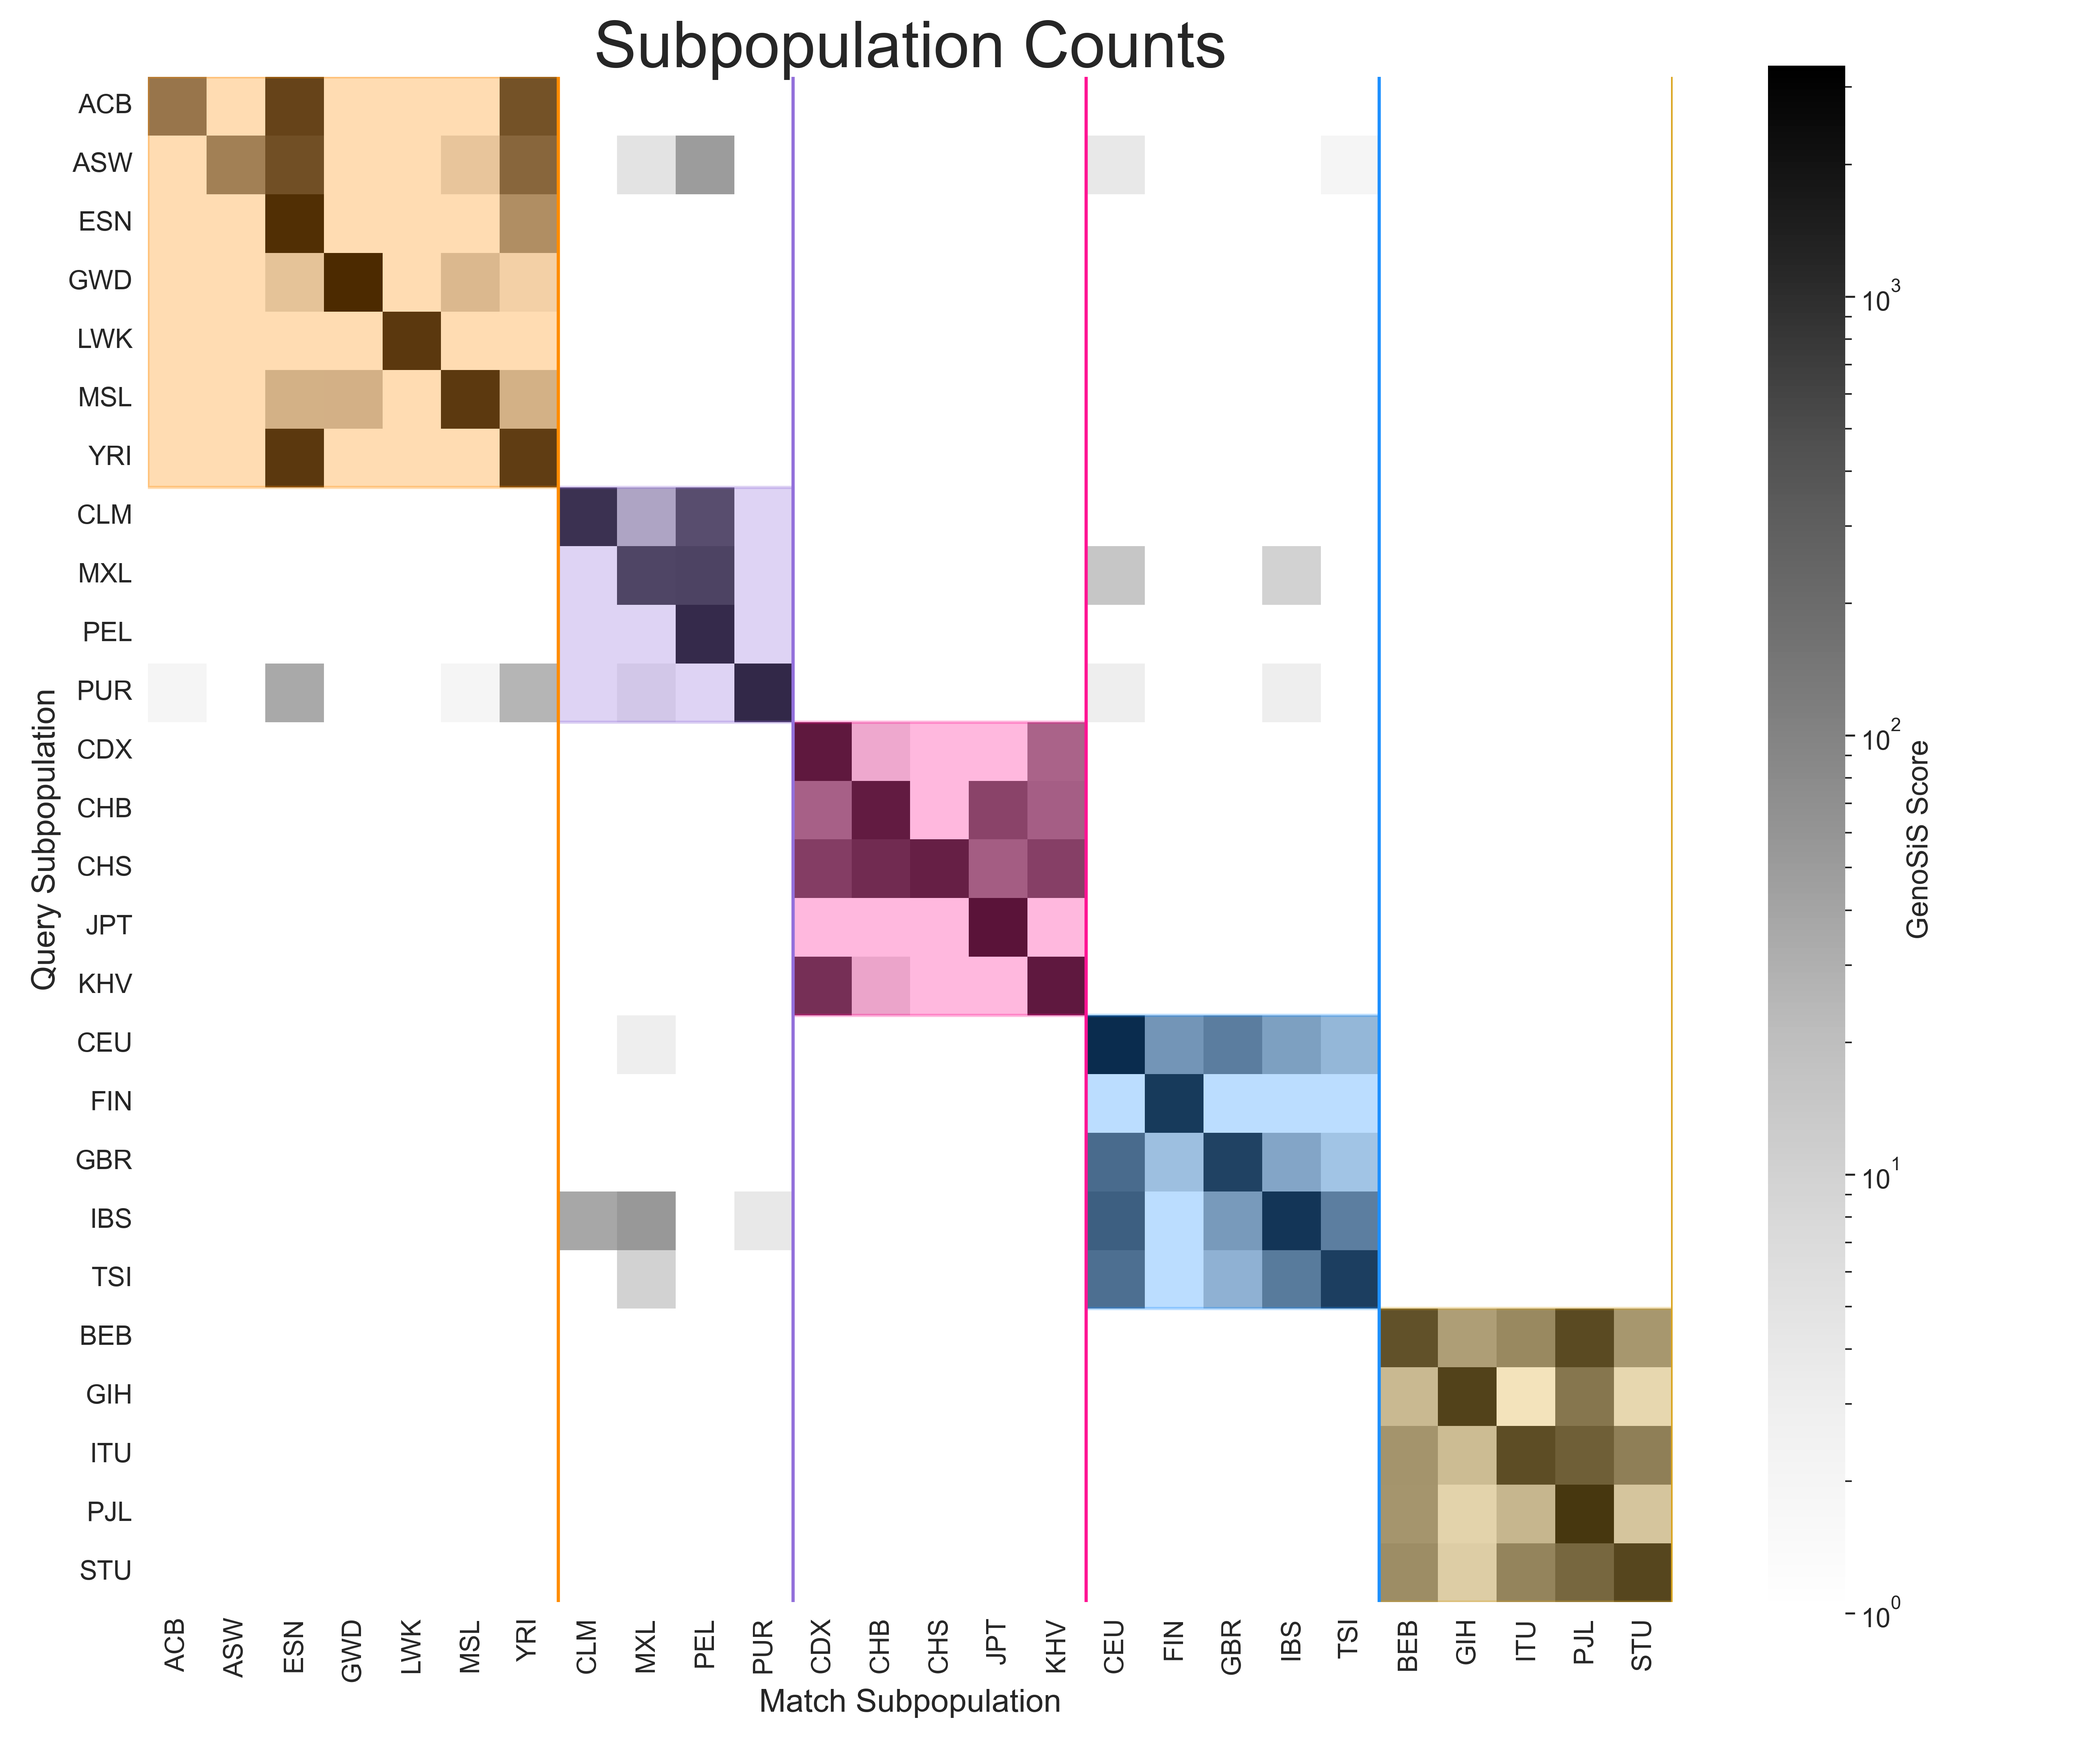
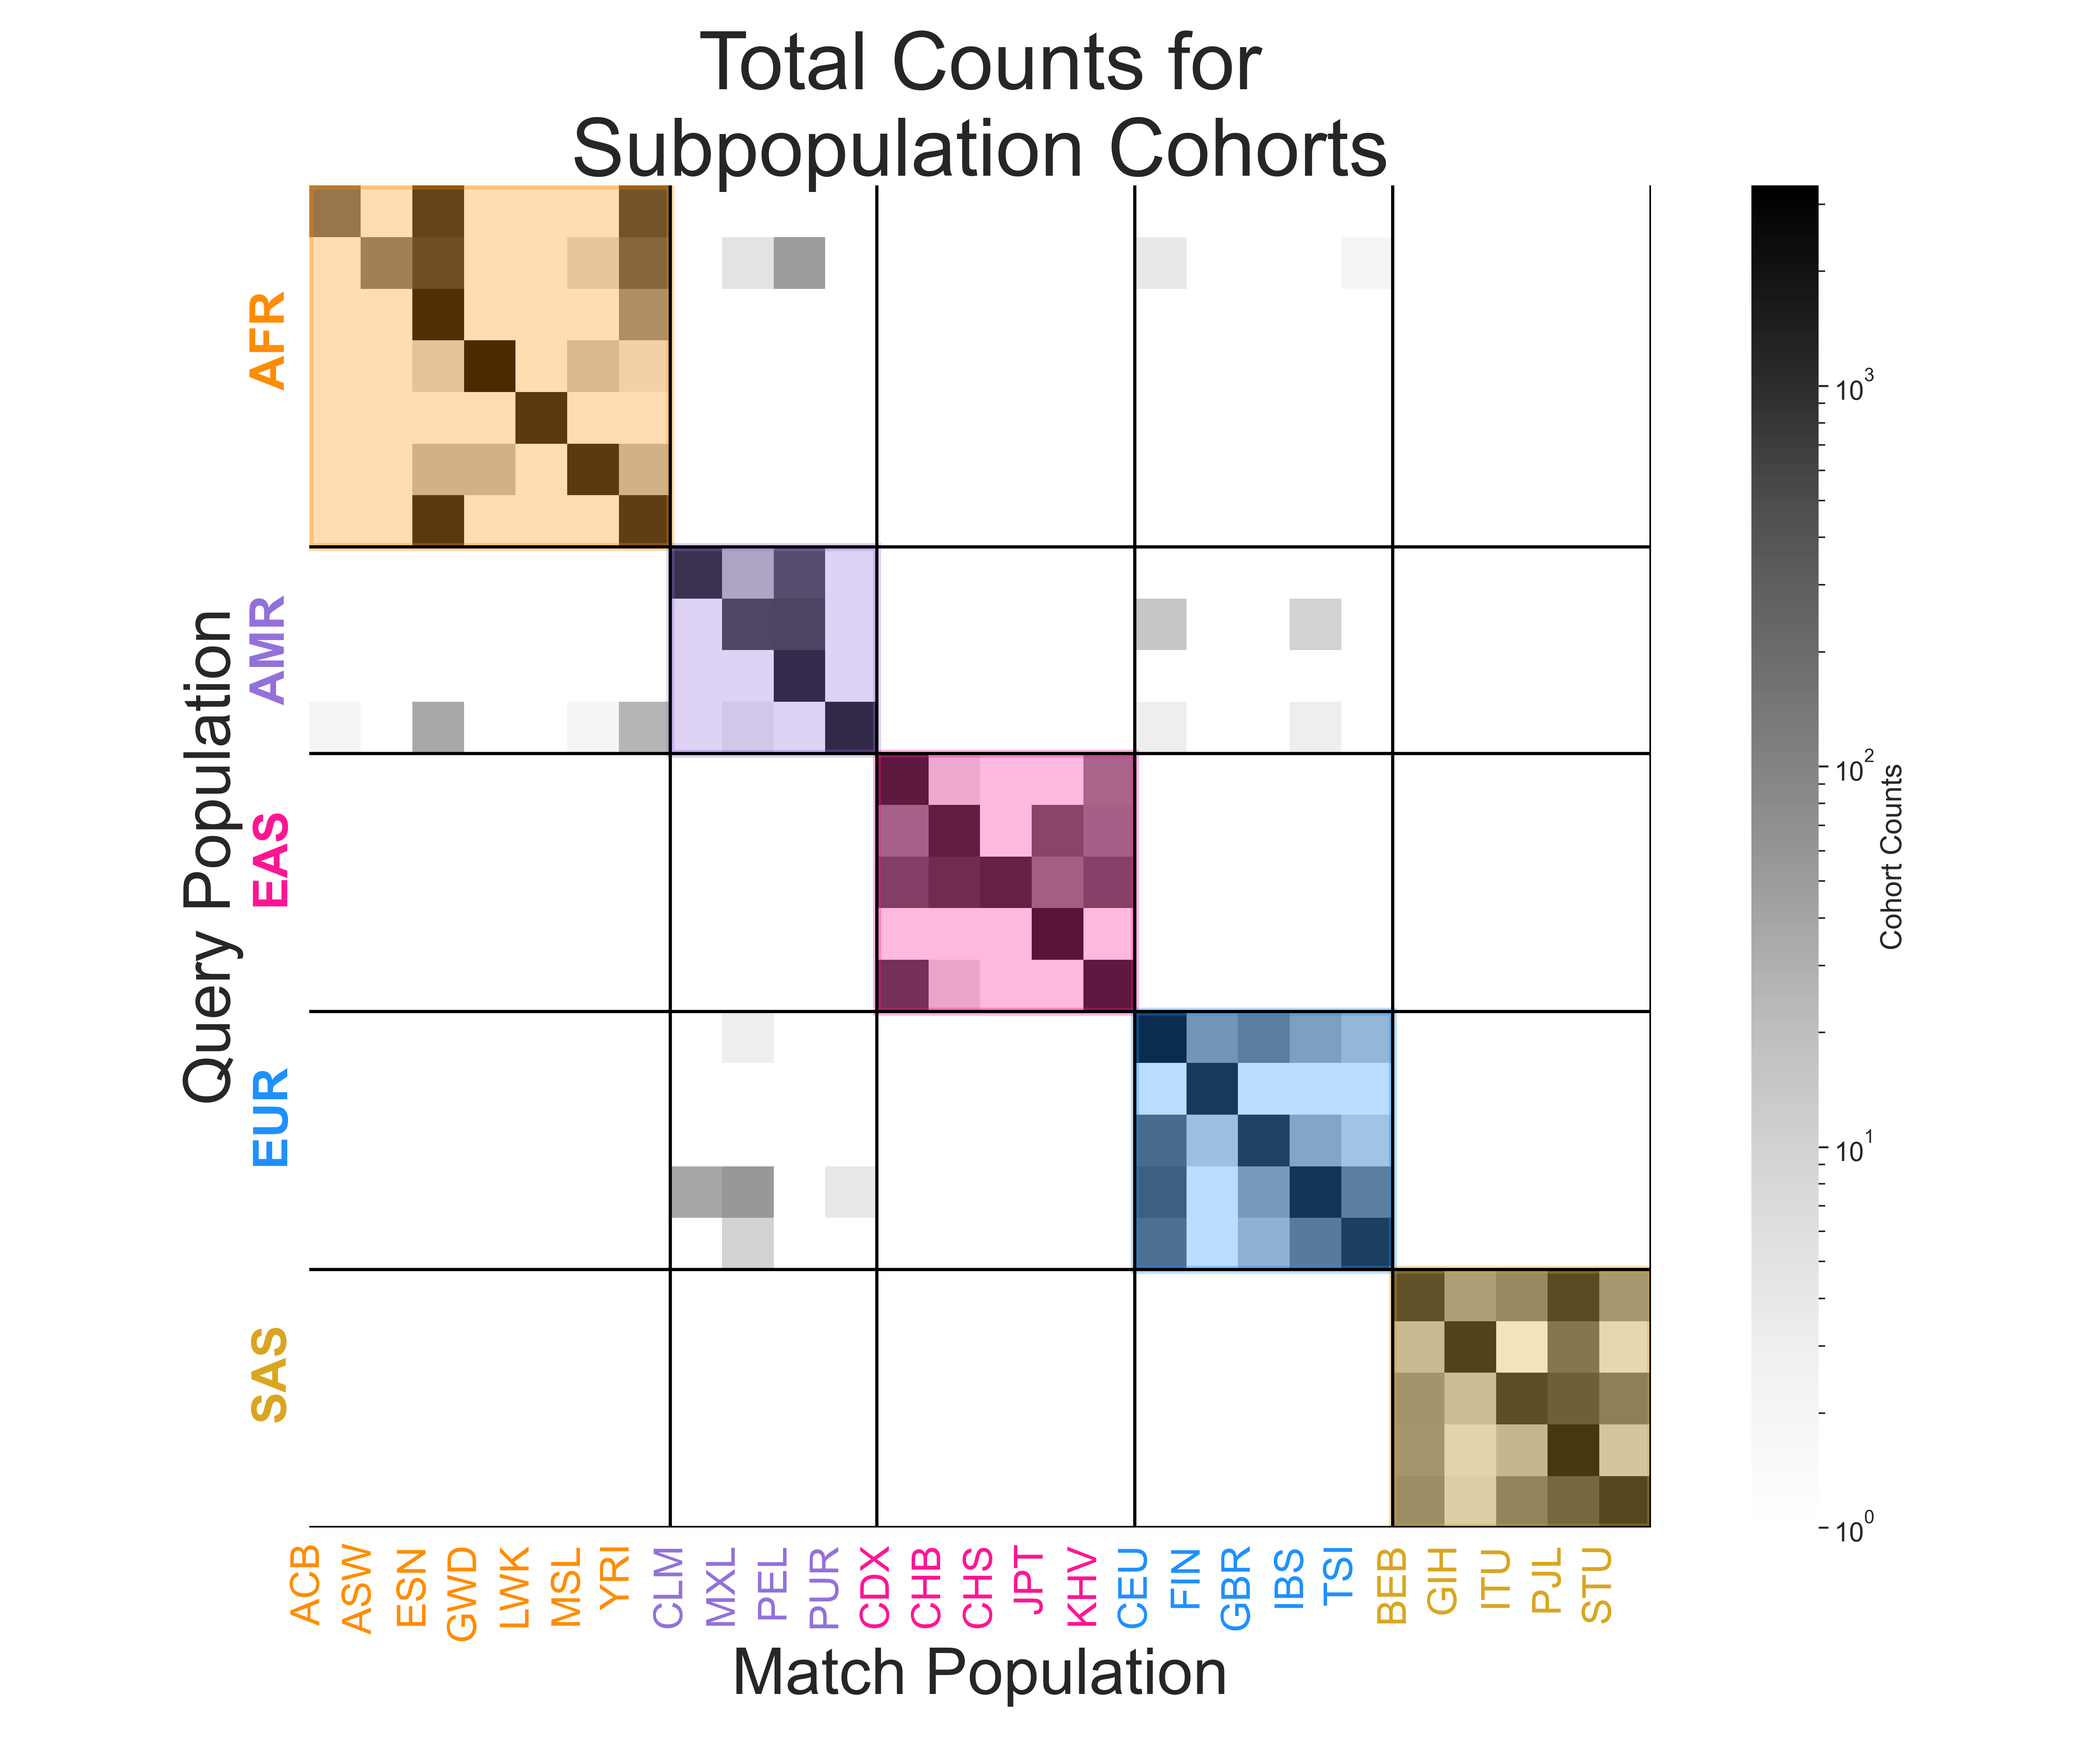
some formatting changes

diff --git a/plotting/figure_sup_subpops.py b/plotting/figure_sup_subpops.py
@@ -87,8 +87,8 @@ def plot_subpop_counts_heatmatp(subpop_counts,
     row_colors = [get_ancestry_colors()[ancestry_helpers.SUB_SUPERPOPULATIONS[subpop]] for subpop in ordered_subpops]
 
     sns.heatmap(df, cmap=colormap, annot=False, cbar=True, square=True,
-                xticklabels=True, yticklabels=True,
-                norm=LogNorm(), cbar_kws={'label': 'GenoSiS Score'})
+                xticklabels=False, yticklabels=False,
+                norm=LogNorm(), cbar_kws={'label': 'Cohort Counts'})
 
     # add patches for superpopulations
     line_offset = 0
@@ -97,21 +97,52 @@ def plot_subpop_counts_heatmatp(subpop_counts,
         plt.gca().add_patch(Rectangle((line_offset, line_offset), num_subpops, num_subpops,
                                       edgecolor=get_ancestry_colors()[i],
                                       facecolor=get_ancestry_colors()[i],
-                                      alpha=0.3, lw=2))
+                                      alpha=0.3, lw=5))
         line_offset += num_subpops
+
+    # add xtick labels and color by superpopulation
+    xtick_labels = []
+    ytick_labels = []
+    xtick_positions = []
+    ytick_positions = []
+    tick_offset = 0
+    x_i = 0
+    y_i = 0
+    for i in SUPER_SUBPOPULATIONS:
+        num_subpops = len(SUPER_SUBPOPULATIONS[i])
+        xtick_labels.extend([subpop for subpop in ordered_subpops[tick_offset:tick_offset+num_subpops]])
+        ytick_labels.append(i)
+        xtick_positions.extend(range(x_i, x_i + num_subpops))
+        ytick_positions.append(tick_offset + num_subpops//2)
+        x_i += num_subpops
+        tick_offset += num_subpops
+    plt.xticks(xtick_positions, xtick_labels,
+               rotation=90, fontsize=25)
+    for tick in plt.gca().get_xticklabels():
+        tick.set_color(get_ancestry_colors()[ancestry_helpers.SUB_SUPERPOPULATIONS[tick.get_text()]])
+
+
+    plt.yticks(ytick_positions, ytick_labels,
+               rotation=90, fontsize=30, fontweight='bold',
+               va='center')
+    for tick in plt.gca().get_yticklabels():
+        tick.set_color(get_ancestry_colors()[tick.get_text()])
+
 
     # draw lines between superpopulations
     line_offset = 0
     for i in SUPER_SUBPOPULATIONS:
         num_subpops = len(SUPER_SUBPOPULATIONS[i])
-        # plt.axhline(num_subpops + line_offset, color=get_ancestry_colors()[i], linewidth=2)
-        plt.axvline(num_subpops + line_offset, color=get_ancestry_colors()[i], linewidth=2)
+        plt.axhline(num_subpops + line_offset, color='black', linewidth=2)
+        plt.axvline(num_subpops + line_offset, color='black', linewidth=2)
         line_offset += num_subpops
 
 
-    plt.xlabel('Match Subpopulation', fontsize=20)
-    plt.ylabel('Query Subpopulation', fontsize=20)
-    plt.title('Subpopulation Counts', fontsize=40)
+    plt.xlabel('Match Population', fontsize=40)
+    plt.ylabel('Query Population', fontsize=40)
+    plt.title('Total Counts for\nSubpopulation Cohorts', fontsize=50)
+    # move plot to make room for title
+    plt.subplots_adjust(top=0.9, bottom=0.2, right=0.9, left=0.1)
     plt.tight_layout()
     plt.savefig(output_file)
 
